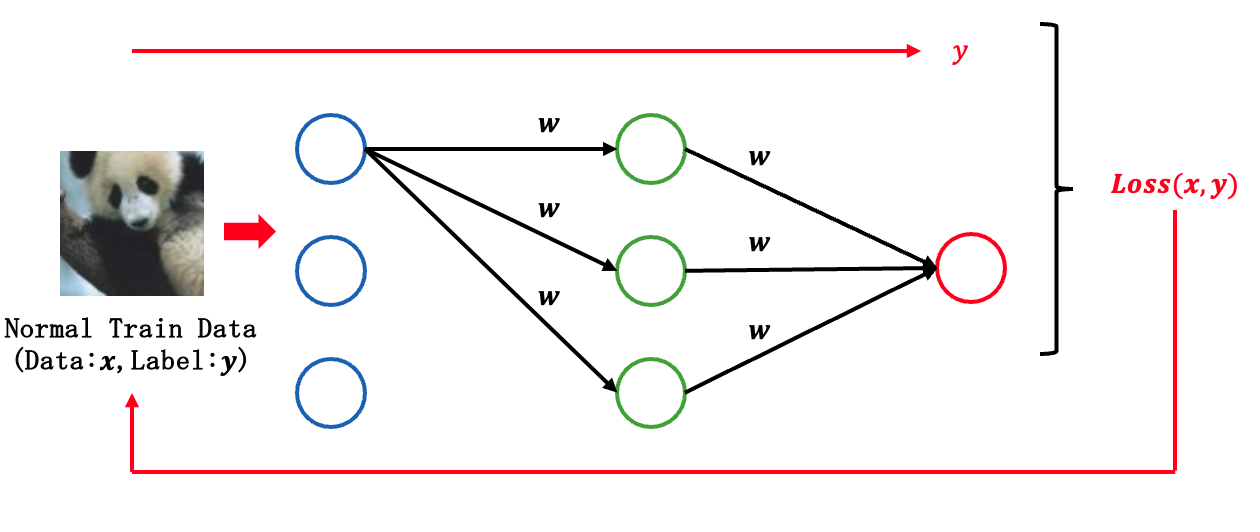
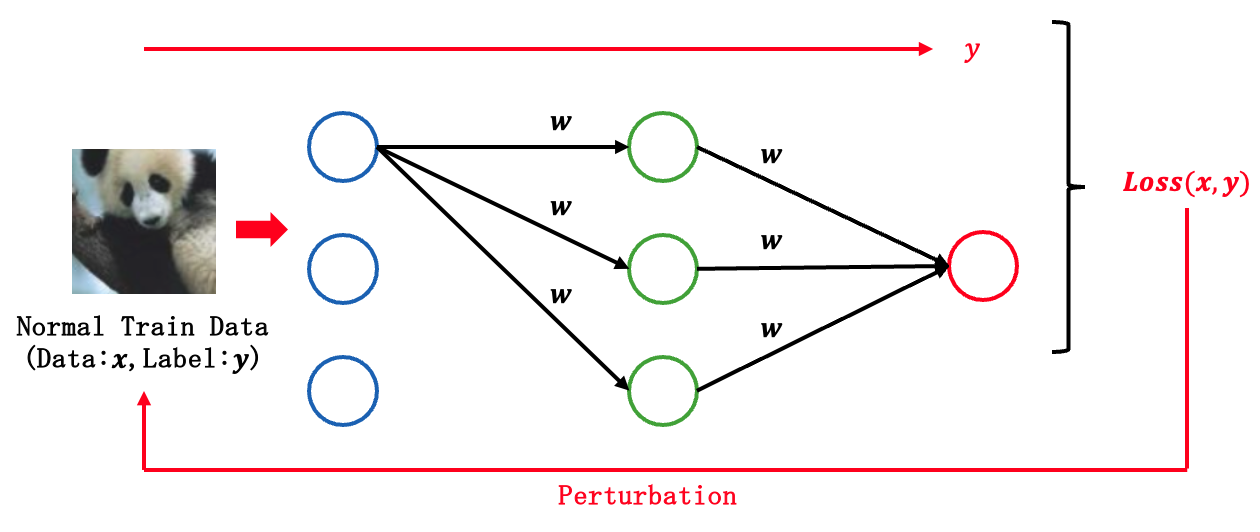
work point

diff --git a/contents/02_preparation.tex b/contents/02_preparation.tex
@@ -1,5 +1,3 @@
-
-
 % \subsection{問題設定}
 % 本研究では，銀行のローンの審査システムについての機械学習モデルを想定し，認可拒否について誤分類を引き起こす敵対的サンプルを生成することを考える．銀行のローンを申請する顧客情報と正解データをもとに機械学習モデルが学習し，テストデータに対する分類結果を出力する．敵対的サンプルによる誤分類は，銀行にとってリスクの高いローンを誤って認可してしまう可能性がある．このような問題に対処するため，機械学習モデルの安全性が求められており，敵対的サンプルに対する防御手法が必要である．また同時に，モデルの脆弱性を理解することは，安全性を向上させるために重要である．
 
@@ -9,30 +7,76 @@
 
 goodfellowらの研究\cite{goodfellow2015explaining}でこの敵対的学習について提案された。この手法では、正常データと敵対的サンプルの特徴をAIに学習させる防御手法である。機械学習モデルの学習時において、正常データと敵対的サンプルに対する誤差(Loss)をそれぞれ計算し、これらを足し合わせた値を基のモデルの重み $\bm{w}$ を更新することで、敵対的サンプルの特徴を学習する。
 
-以下に実際の敵対的学習の流れを示す。
+以下に実際の敵対的学習の流れを示す。\cite{AdversarialTraining}
 \begin{enumerate}
+
     \item 学習中の機械学習モデルを利用して敵対的サンプルを作成する
 
+    元データの画像を機械学習モデルに入力し、予測ラベル $y$ を得る。また、この予測と正解データを比較した誤差を $Loss$ 関数で計算し、この誤差を最小化するように敵対的サンプルを生成する。
+    
+    \begin{figure}[h]
+        \centering
+        \includegraphics[width=0.8\textwidth]{images/敵対的学習1.png}
+        \caption{敵対的学習1：元データによる}
+        \label{fig:adversarial_learning1}
+    \end{figure}
+    
     \item 機械モデルに正常なデータ $\bm{x}$ と敵対的サンプル $\bm{x}'$ を入力し、それぞれの誤差 $Loss$ を得る
 
+    図2の上の画像が元データで下の画像が先ほどノイズを加えた画像である。それぞれ機械学習モデルに入力し、それぞれの誤差を取得する。
+
+    \begin{figure}[h]
+        \centering
+        \includegraphics[width=0.8\textwidth]{images/敵対的学習2.png}
+        \caption{敵対的学習2：元データと敵対敵サンプルの誤差を取得する}
+        \label{fig:adversarial_learning2}
+    \end{figure}
 
     \item それぞれ得た誤差 $Loss(x, y)$ と $Loss(x', y)$ に重み係数 $\alpha$ をつけて足し合わせる
+
+    元データと敵対的サンプル両方の誤差を取得し、重み $\alpha$ をつけて足し合わせることで、敵対的サンプルの挙動のバランスを調整することができる。バランスを表した式は以下のようになる。
     
+    \begin{equation}
+    \alpha \cdot Loss(x,y)+(1−\alpha) \cdot Loss(\tilde{x},y) \tag{1}
+    \end{equation}
+
+    \begin{figure}[h]
+        \centering
+        \includegraphics[width=0.8\textwidth]{images/敵対的学習3.png}
+        \caption{敵対的学習3：元データと敵対敵サンプルの誤差を足し合わせる}
+        \label{fig:adversarial_learning3}
+    \end{figure}
+
     \item 足し合わされた誤差 $Loss$ が最小となるように、重み $\bm{w}$ を更新する
+
+    機械学習モデルに重み付けされていた $w$ を更新する。
+
+    先ほどの式(1)を最小化することで、重み $w$ を $w_{_new}$ に更新する。これにより、敵対的サンプルの挙動を抑えることができた機械学習モデルを作成することができる。
+    
+    \begin{figure}[h]
+        \centering
+        \includegraphics[width=0.8\textwidth]{images/敵対的学習4.png}
+        \caption{敵対的学習4：足し合わされた誤差が最小となるよう重みを更新する}
+        \label{fig:adversarial_learning4}
+    \end{figure}
+
 \end{enumerate}
 
 \subsection{敵対的サンプル}
-敵対的サンプルについて誤分類を引き起こす仕組みについて説明する．改めて敵対的サンプルとは，人間には見分けのつかない微細なノイズをデータに付与することで機械学習モデルの誤分類を引き起こすデータである．このようなデータを用いた攻撃によって機械学習モデルが重大な誤りを犯す可能性がある．
+先ほどの敵対的学習の説明の中の一番最初のステップで生成した敵対的サンプルについて説明する。改めて敵対的サンプルとは，人間には見分けのつかない微細なノイズをデータに付与することで機械学習モデルの誤分類を引き起こすデータである．運用している機械学習モデルを狙った攻撃に使用されることがある。
 
-敵対的サンプルについてまとめた最初の研究として
-この研究では，下の画像のように様々な動物に関する画像を学習した機械学習モデルに対して，人間には見分けがつかない微細なノイズを付与したパンダの画像を入力するとテナガザルと誤分類されることを示した．
-
+敵対的サンプルによる誤分類を確認した実験をGoodfellowらが行っている\cite{goodfellow2015explaining}。
 \begin{figure}[h]
     \centering
-    \includegraphics[width=0.5\textwidth]{images/goodfellow_panda.png}
+    \includegraphics[width=0.8\textwidth]{images/goodfellow_panda.png}
     \caption{敵対的サンプルの例：パンダの敵対的サンプル画像によってテナガザルと誤分類する}
     \label{fig:adversarial_example}
 \end{figure}
 
+この研究では，様々な動物に関する画像を学習した機械学習モデルに対して，人間には見分けがつかない微細なノイズを付与したパンダの画像を入力するとテナガザルと誤分類されることを示した．
+
 このような画像データに対する敵対的サンプルの生成は行うことができる．しかし，表形式データに対する敵対的サンプルは，先ほどの手法を用いて生成することは難しい．その理由として，表形式データの特徴量は画像データと異なる性質を持つためである．画像データの場合，各ピクセルの値は0から255の範囲の連続値として扱うことができ，わずかな変化は人間の目では認識できないことが多い．一方で，表形式データの特徴量には，年齢や収入といった数値データだけでなく，性別や職業といったカテゴリカルデータも含まれる．また，各特徴量は独立した意味を持っており，それぞれの特徴量の変化は明確な意味の変化を伴う．例えば，先ほどのパンダの画像の場合，個々のピクセル値にわずかな変化を加えても，人間にとってはそれが「パンダの画像」であることに変わりはない．しかし，ローン申請データにおいて，年収を示す特徴量に対してわずかな変化を加えた場合，その変化は申請者の経済状況を直接的に変えてしまう可能性がある．さらに，職業などのカテゴリカルデータの場合，わずかな変化という概念自体が適用できない．このような表形式データの特性により，画像データに対する敵対的サンプル生成手法をそのまま適用することは適切ではない．そこで，表形式データの特性を考慮した新たな敵対的サンプル生成手法が必要となる．特に，各特徴量の重要度や，特徴量の種類（連続値かカテゴリカル値か）を考慮した手法が求められる．
 
+
+
+画像データと異なり，表形式データは画像データのように0から255と決められた範囲の値を持つわけではなく，各特徴量によってデータ型や範囲が様々である．そのため，画像データに対する敵対的サンプルの生成手法をそのまま適用すると非現実的なサンプルが生成されてしまう可能性がある．

diff --git a/contents/03_default_method.tex b/contents/03_default_method.tex
@@ -4,7 +4,7 @@
 表形式データに対する敵対的サンプルの生成手法として，Balletらが提案したLowProFool\cite{ballet2019imperceptible}がある．表形式データは識別に寄与する各特徴量の重要度が異なることが多い．LowProFoolはこの点に着目し，各特徴量の重要度を元データから算出し，それに基づいたノイズを付加することで誤分類を引き起こすデータを生成するを行う．特徴量の重要度を示すベクトル $\bm{v}$ とノイズベクトル $\bm{r}$ を用い，検出されにくさを表現する．この手法の目的関数は式(1)で定義される．
 
 \begin{equation}
-g(r) = L(\bm{x}+\bm{r}, t) + \lambda ||\bm{v} \odot \bm{r}||_2 \tag{1}
+g(r) = L(\bm{x}+\bm{r}, t) + \lambda ||\bm{v} \odot \bm{r}||_2 \tag{2}
 \end{equation}
 
  $L(\bm{x}+\bm{r}, t)$ では，損失関数を定義しており，元データ $\bm{x}$ にノイズ $\bm{r}$ を付加することで意図的に分類させたいラベル $t$ 導くことを表している．$\lambda ||\bm{v} \odot \bm{r}||_2$ では，先ほどのノイズ $\bm{r}$ と特徴量の重要度を表した $\bm{v}$ をアダマール積によって各特徴量ごとに重み付けする．これらの計算結果を元に $\lambda$ は前者のノイズを付加し誤分類へ導くことと、後者の重要度を意識したノイズを付加考慮したノイズの大きさを制約する．この手法では，
